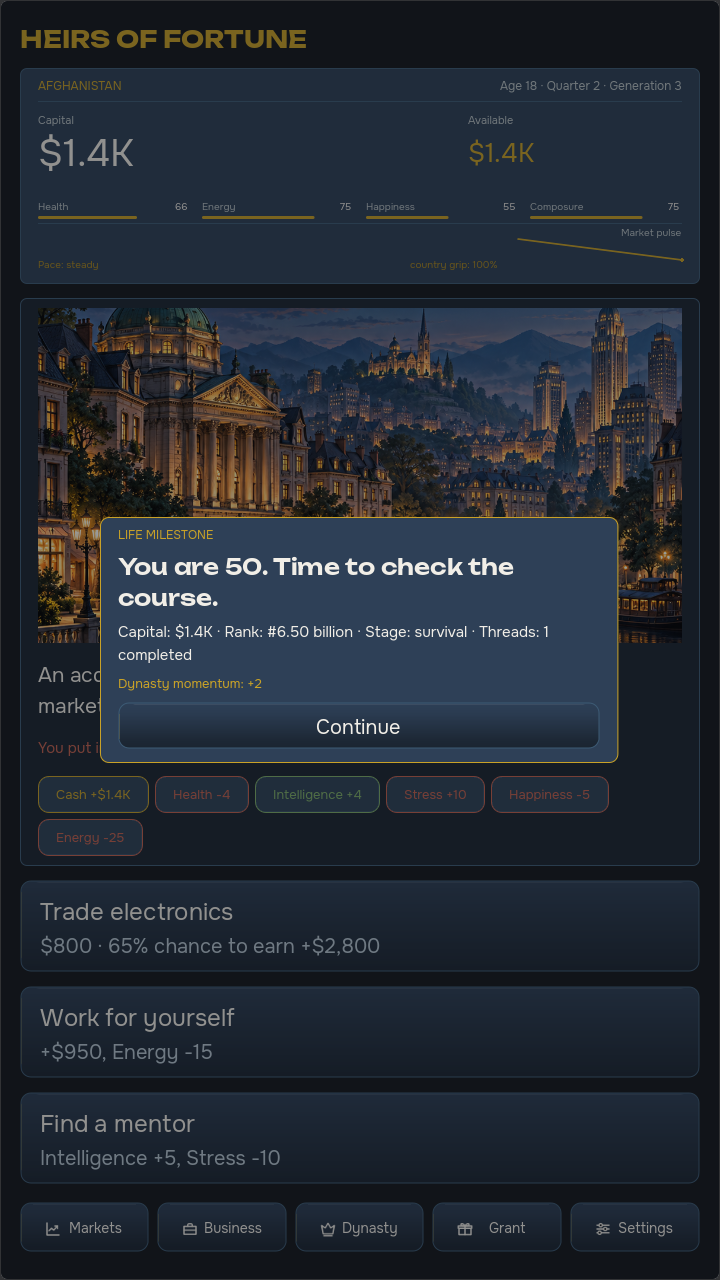
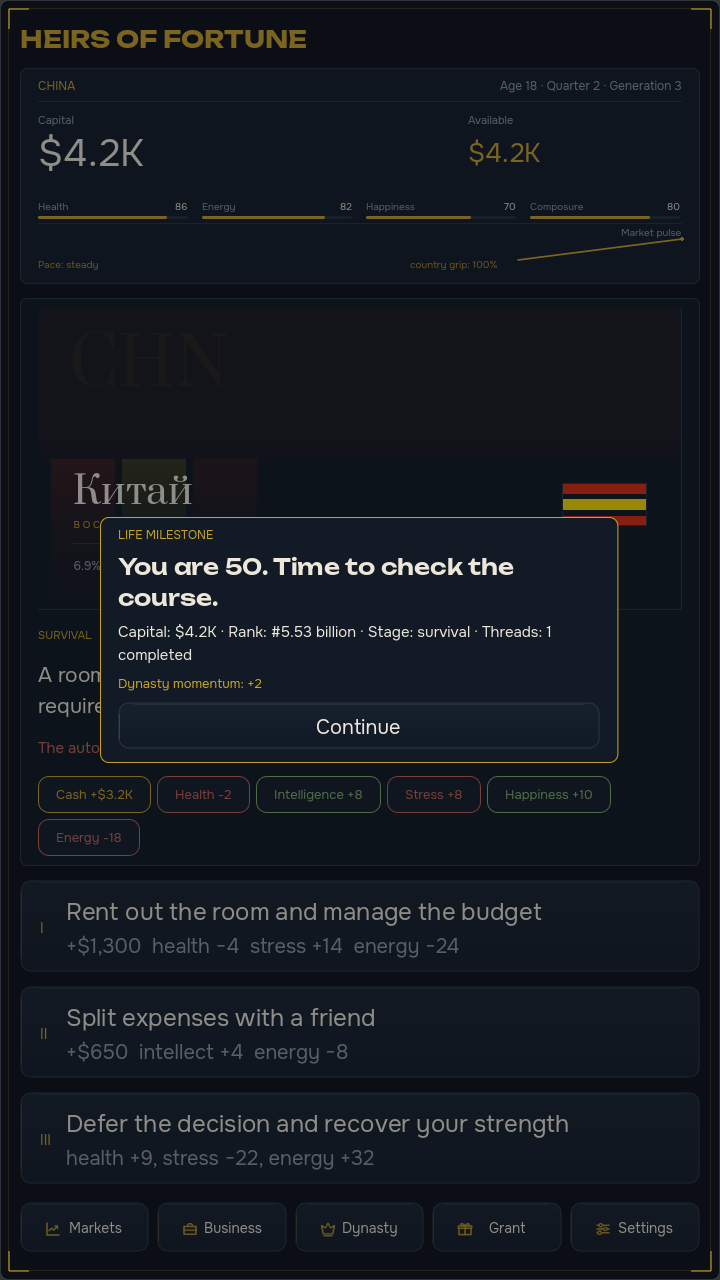
Heirs of Fortune: preserve the two-skin presentation review and press set
The accepted review and the press frames both described the single-skin build, and
the asset inventory stopped at the ten files it had reviewed before the interface
grew five more glyphs. This records eight gallery runs across both skins, the
ambition row in each of them, the icon inventory with the globe marked as
inventory rather than shipped interface, and the cover-overflow repair.

diff --git a/docs/press/v2.1.0/CAPTIONS.md b/docs/press/v2.1.0/CAPTIONS.md
@@ -1,12 +1,12 @@
 # Heirs of Fortune 2.1.0 press frames
 
-Captured from the shipping presentation source at commit `e9b0256bb3c3048068d2ea1e12e3f3970aab1d87`, the commit the publication gate exports. Frames marked staged are produced by the scripted gallery driver, which seeds dynasty state; they are not claims of natural reachability. No frame is retouched or cropped. The set was re-rendered at that commit after the Heir ambition copy changed; the intro frame came back byte-identical to the accepted capture and the frames that print live figures differ only in those values.
+Captured from the shipping presentation source at commit `62c153b020e10ec5b5c07d1f176e37408bfb2a38`, the commit the publication gate exports for this release; frames are captured in the dark skin. Frames marked staged are produced by the scripted gallery driver, which seeds dynasty state; they are not claims of natural reachability. No frame is retouched or cropped. The set was re-rendered at that commit after the Heir ambition copy changed; the intro frame came back byte-identical to the accepted capture and the frames that print live figures differ only in those values.
 
[16 lines of base64/hex data omitted]
